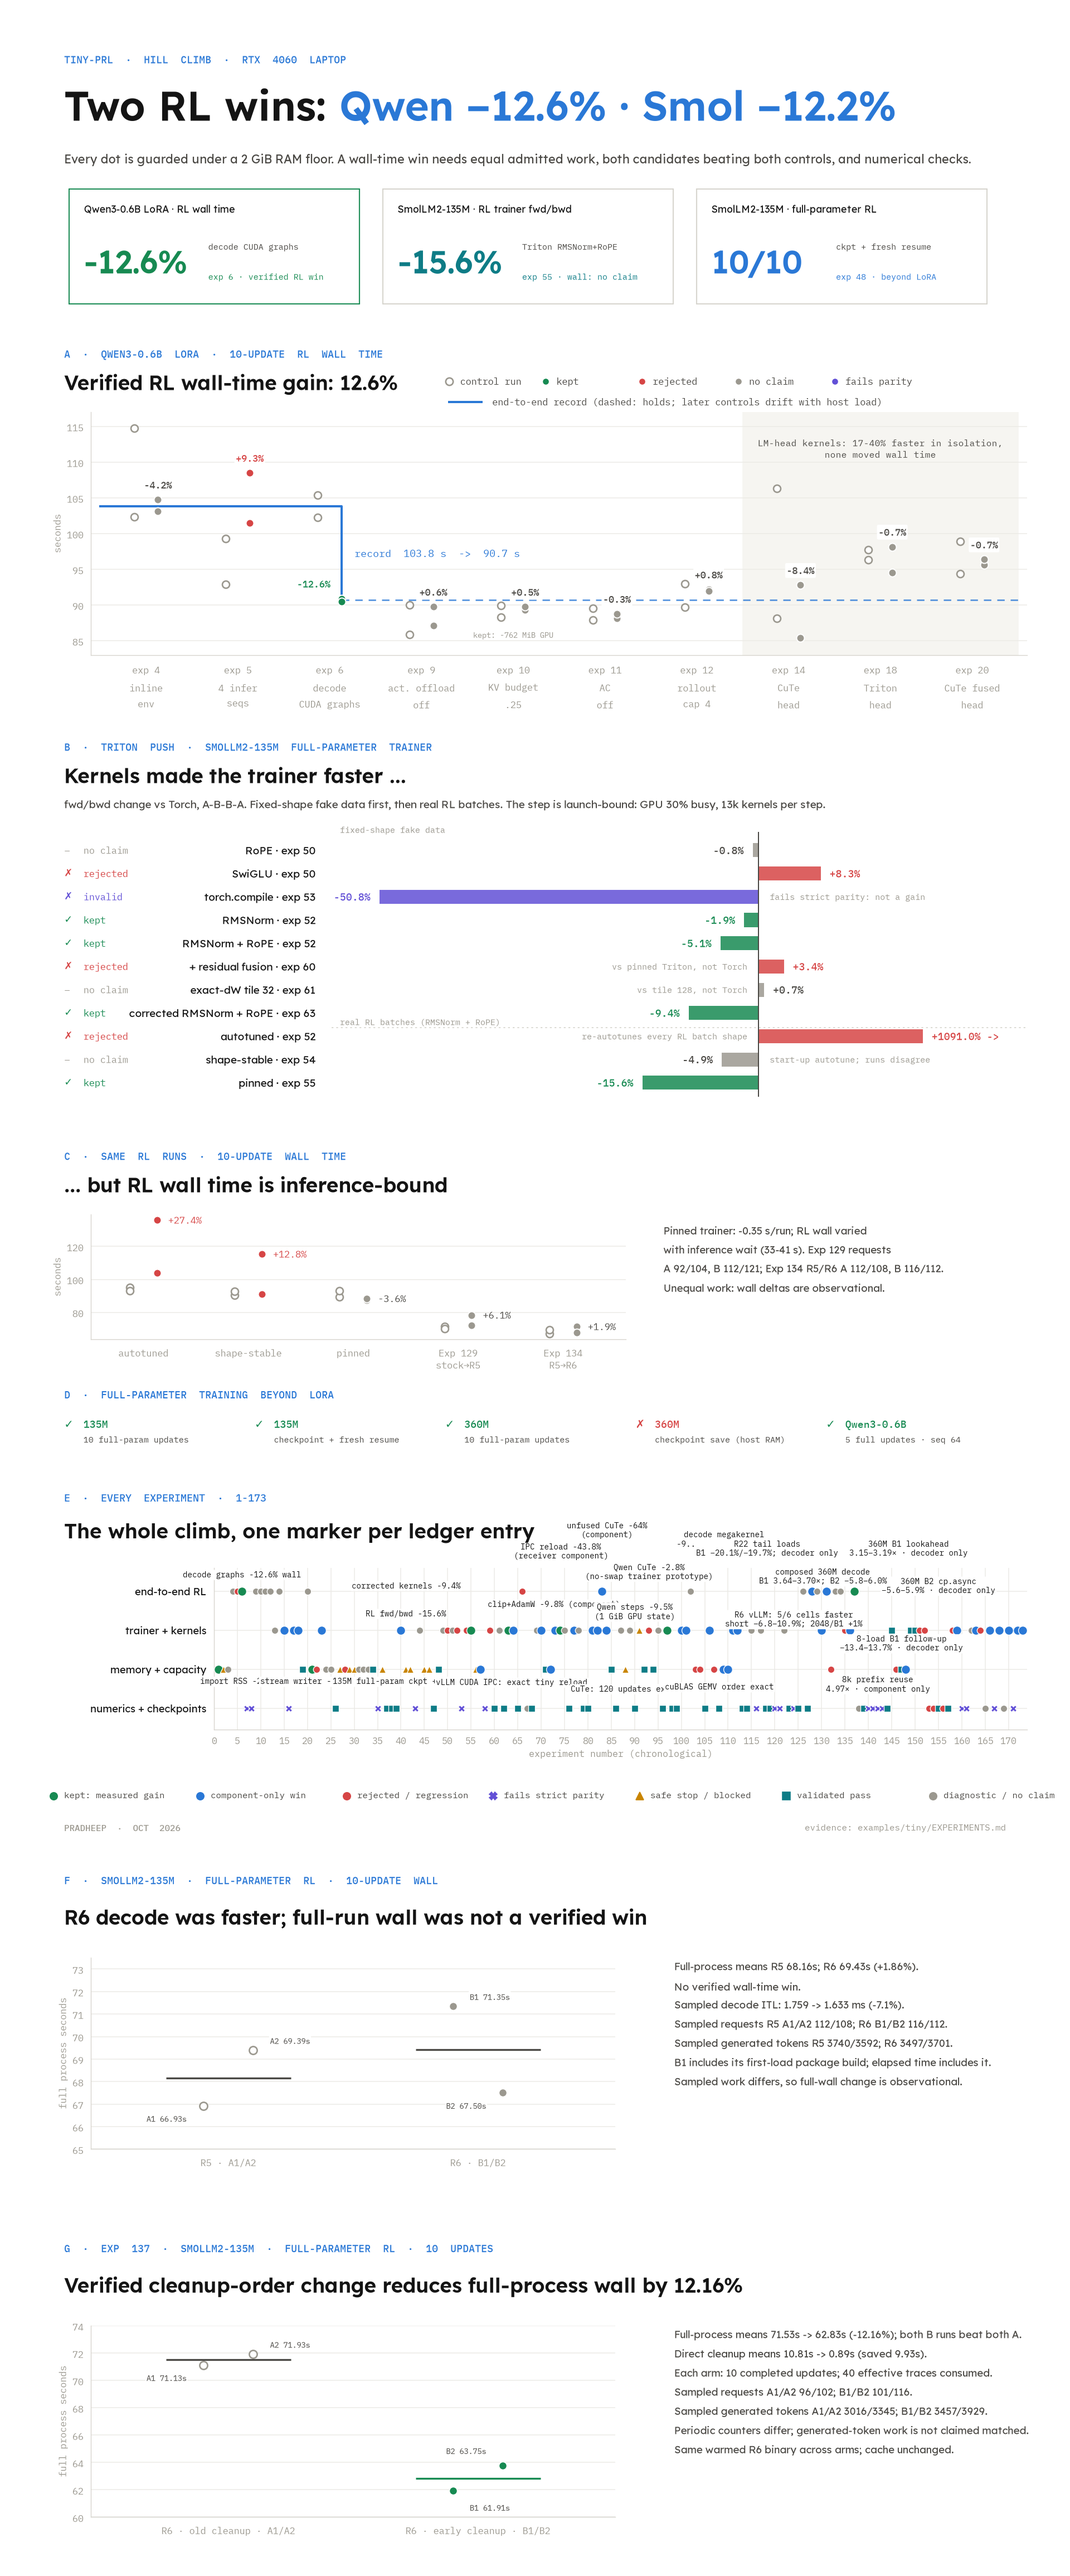
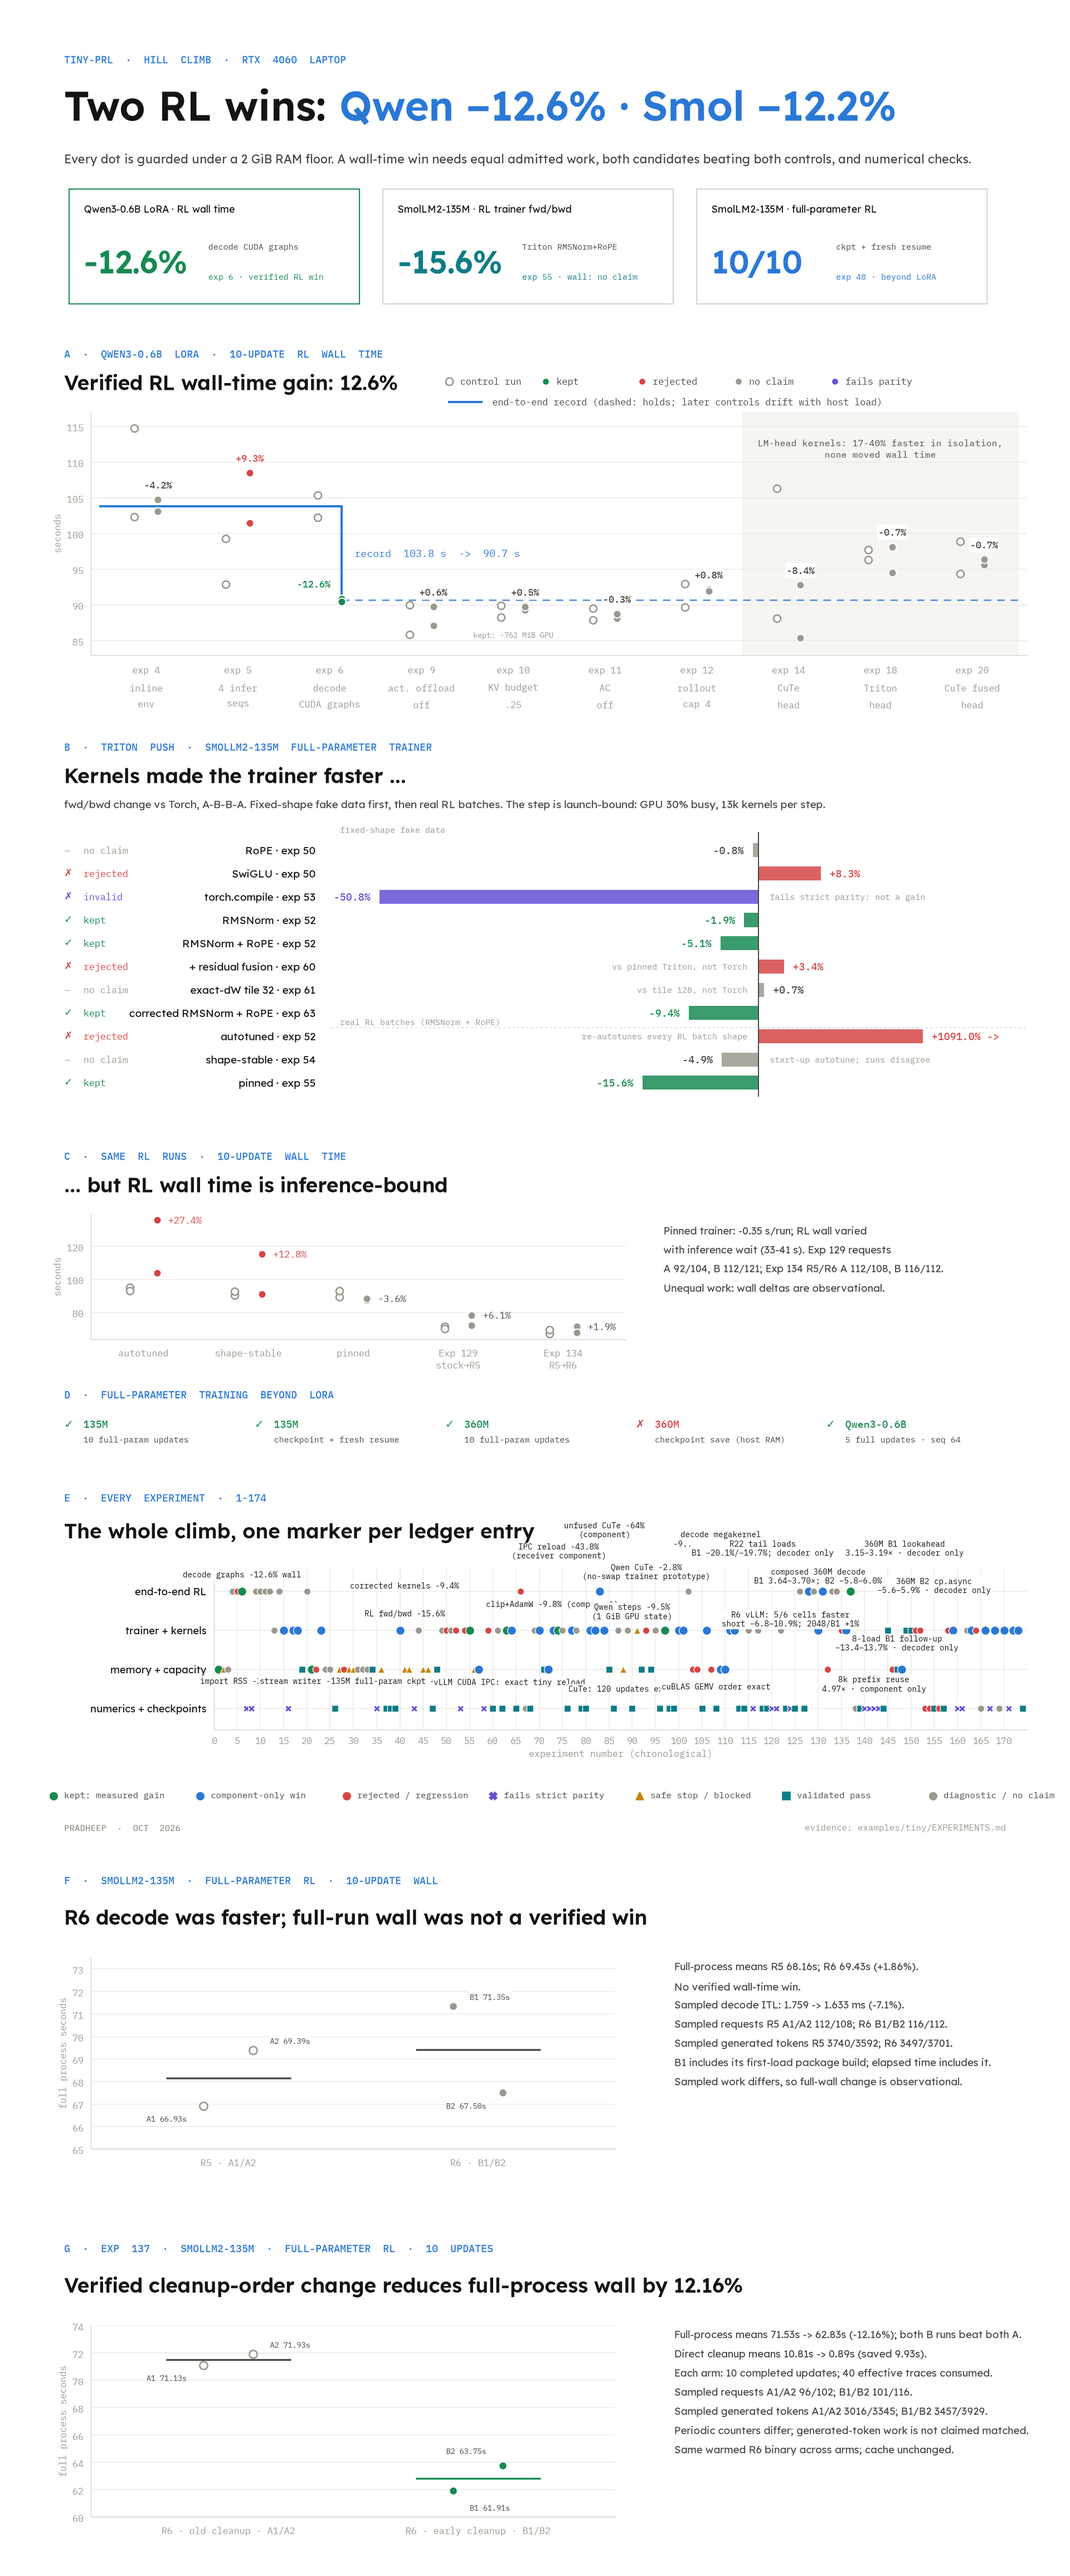
docs: record 46-case parity and R25 timing

Changed region(s): [[0.625, 0.5922, 0.9062, 0.6857], [0.5, 0.5922, 0.625, 0.6545], [0.4062, 0.6234, 0.4375, 0.6545]]

diff --git a/tools/plot_tiny_hillclimb.py b/tools/plot_tiny_hillclimb.py
@@ -269,6 +269,7 @@ EXPERIMENTS = {
     171: (NUM, "parity"),
     172: (TRAIN, "component"),
     173: (TRAIN, "component"),
+    174: (NUM, "validated"),
 }
 # Callout text with (dx, dy) offsets in points, staggered so neighbours do not collide.
 CALLOUTS = {

diff --git a/examples/tiny/HANDOFF.md b/examples/tiny/HANDOFF.md
@@ -52,6 +52,11 @@ R20's composed-kernel ABBA is now verified: relative to R15b, B1 decoder latency
 
 **R23 checkpoint (2026-10-28):** R23 changes only B2 projection A-tile staging: zero-fill padded A rows once and write the 32 live BF16 values per K16 step. Full validation remains 45/46 with R22's exact pass set; only seed777 B2/context8000 fails. Two guarded direct ABBA/BAAB runs show B2/context32 reductions of 0.567% and 0.591%, and B2/context128 reductions of 0.493% and 0.507%, with all six blocks per B2 shape across the two runs beating both R22 placements. B1 is effectively flat. Across each of the four shapes in both runs, 195 hidden/KV comparisons are bitwise exact at 0 ULP. This is a decoder-component result only; it establishes no serving or RL wall-time gain. The source and compact validation/performance evidence are archived at `research/smollm2_360m_decode/experiments/r23-a-zero/`; raw guarded outputs and artifact hashes are in `outputs/megakernel-20261025/validation-operator-r1/reports/r23-direct-bench-two-run-summary.md`. The native PV launch-argument CUPTI R2 capture is complete at `outputs/megakernel-20261025/decode360-pv-launch-args-r2/results-r1/`; one target launch produced 1,920 PV output elements bitwise exact, and `cuKernelGetParamInfo` confirmed a 152-byte formal argument. An inferred 64-chunk/512-tile target replay is being prepared in `outputs/megakernel-20261025/decode360-pv-chunk64-r1/`. The private R24 A-before-wait source candidate is prepared but not built at `outputs/megakernel-20261025/decode-360-cuda-r24-a-before-wait/`. The prepared RL package at `outputs/megakernel-20261025/rl-envpool-abba-r1/` passed CPU validation but has not run on GPU; it requires 9 GiB `MemAvailable`, while current availability is approximately 5–6 GiB.
 
+
+**R25 checkpoint (2026-10-28):** R25 changes only the long-context B2 PV dispatch, using the chunk-64 schedule for `max(seq_s)>2048` while retaining the existing K=512 branch. Initial, held-out, and wide validation all pass: 46/46 total, with one added pass at seed777 B2/context8000 and no losses. Final hidden and logits at that case are 0 ULP; a wide internal attention-debug capture differs by up to 10 ULP, while all existing acceptance-stage gates pass. A CUPTI R2 capture observed one target launch, one 152-byte formal argument via `cuKernelGetParamInfo`, and 1,920 PV output elements replayed bitwise exact; the inferred chunk-64 candidate also matches all 32 saved layers. Exact native per-K traversal and full SASS parameter mapping remain inferred. Source, validation summary, compact decoded parameters, and replay scripts are archived at `research/smollm2_360m_decode/experiments/r25-pv64/`. R23 is an accuracy-invalid diagnostic control at context8000; no quality-equivalence claim is made there.
+
+**R25 direct timing (2026-10-28):** B2/context2048 is 12.654096 to 11.650048 ms (−7.934568%, all 3 strict blocks), B2/context8000 is 26.344016 to 22.657537 ms (−13.993613%, diagnostic only), and the B1/context32 control is neutral (−0.042963%, 1/3 strict blocks). R25 hidden/KV checks are 0 ULP for all three direct fixtures. No serving or main-RL wall-time gain has been measured. Compact timing metadata is at `outputs/megakernel-20261025/r25-long-direct-bench-r1/results-r2/direct-bench-summary-r2.json`.
+
 ## KV-cache offload
 
 The short-context R6 smoke is functionally exact for the tested 32 generated IDs and 512-token revisit, but one observation was slightly slower with CPU offload (21.584 ms baseline, 21.699 ms offload). The long-prefix test is a distinct component result: guarded A-B-B-A, three 8,000-token prefixes, 8 generated tokens/request, 192 MiB GPU cache and 768 MiB CPU pool; median 212.174 ms to 42.676 ms (4.9717×), all 96 generated IDs match, and all candidate samples beat controls. It applies to repeated long prefixes within one weight version under R6 eager decode; it does not establish short-context or full-RL gain. The salted cache freshness mutation smoke matches a full reset exactly. Evidence and guard outputs are linked in `ICEPOP_KV_CACHE.md` and Experiments 146–148.

diff --git a/examples/tiny/EXPERIMENTS.md b/examples/tiny/EXPERIMENTS.md
@@ -1464,3 +1464,14 @@ Three direct decoder-only ABBA blocks (20 samples per arm per block) compare R21
 R23 starts from R22 and changes only B2 projection A-tile staging: rows 2–15 are initialized to BF16 zero once per helper call, then each K16 iteration writes only the 32 live values in rows 0–1. Conversion, K16 accumulation order, weight load order, synchronization, ABI, and numerical gates remain unchanged. Validation passes 45/46 with the exact R22 pass set: initial 4/4, held-out 30/30, and wide 11/12. Only seed777 B2/context8000 fails.
 
 Two direct decoder-only ABBA/BAAB runs cover B1/B2 at contexts 32/128, with three blocks, three warmups, and 20 CUDA-event samples per arm entry. The reported statistic is the median of six arm upper-medians. B2/context32 improves 0.567% and 0.591%; B2/context128 improves 0.493% and 0.507%. Every B2 block beats both R22 placements. B1 is effectively flat: −0.044% to +0.028% across the two runs. For each shape in each run, 195 hidden/KV parity comparisons are bitwise exact at 0 ULP. This is a decoder-component result only; it does not establish serving or RL wall-time gains. Gates and dtype boundaries are unchanged. Evidence: `outputs/megakernel-20261025/validation-operator-r1/reports/r23-direct-bench-two-run-summary.md`, `reports/r22-r23-passset-comparison-r1.json`, and the canonical archive `prime-kernels/research/smollm2_360m_decode/experiments/r23-a-zero/`.
+
+
+## Experiment 174: R25 long-context PV schedule restores 46/46 validation
+
+R25 starts from R23 and changes only the B2 PV dispatch for `max(seq_s) > 2048`, retaining the existing homogeneous K=512 branch. It uses eight Y groups, a 64-position chunk per group, one persistent FP32 FMA accumulator, and the halves fold. The B1 path and all other kernel paths, dtypes, rounding boundaries, workspace, task mapping, ABI, and acceptance gates remain unchanged. Full validation passes 46/46: initial 4/4, held-out 30/30, and wide 12/12. This adds the formerly failing seed777 B2/context8000 case with no lost passes; final hidden and logits there are exact at 0 ULP. A wide internal attention-debug capture differs by up to 10 ULP, while the existing acceptance-stage gates pass.
+
+Native PV evidence includes one matching CUPTI R2 GEMVX launch, queried with `cuKernelGetParamInfo` as one 152-byte formal argument, and a saved 32-layer replay where the chunk-64 candidate matches all 1,920 BF16 outputs per layer. The candidate uses a 512-position K-tile advance. Exact native per-K traversal and full SASS parameter mapping remain inferred, not proven. This corpus replay is component evidence; the separate full 46-case validator establishes decoder acceptance.
+
+### Direct decoder timing
+
+The R23/R25 direct decoder comparison is complete. As a correctness-valid comparison, B2/context2048 falls 7.934568% (12.654096 to 11.650048 ms), and R25 beats both R23 placements in all three blocks. R23 is an accuracy-invalid diagnostic control at context8000; that measured −13.993613% delta is not a quality-equivalent comparison. B1/context32 is neutral at −0.042963% with 1/3 strict block wins. R25 hidden/KV checks are 0 ULP on all three direct fixtures. No serving or main-RL wall-time improvement has been measured. The captured validation summary is `outputs/megakernel-20261025/decode-360-cuda-r25-pv64/results-r1/validation-summary-r1.json`; native launch/PV evidence and source are archived in `prime-kernels/research/smollm2_360m_decode/experiments/r25-pv64/`. Direct benchmark metadata: `outputs/megakernel-20261025/r25-long-direct-bench-r1/results-r2/direct-bench-summary-r2.json`; each placement is the upper median of 20 event samples and the reported arm statistic is the median of six placements.
